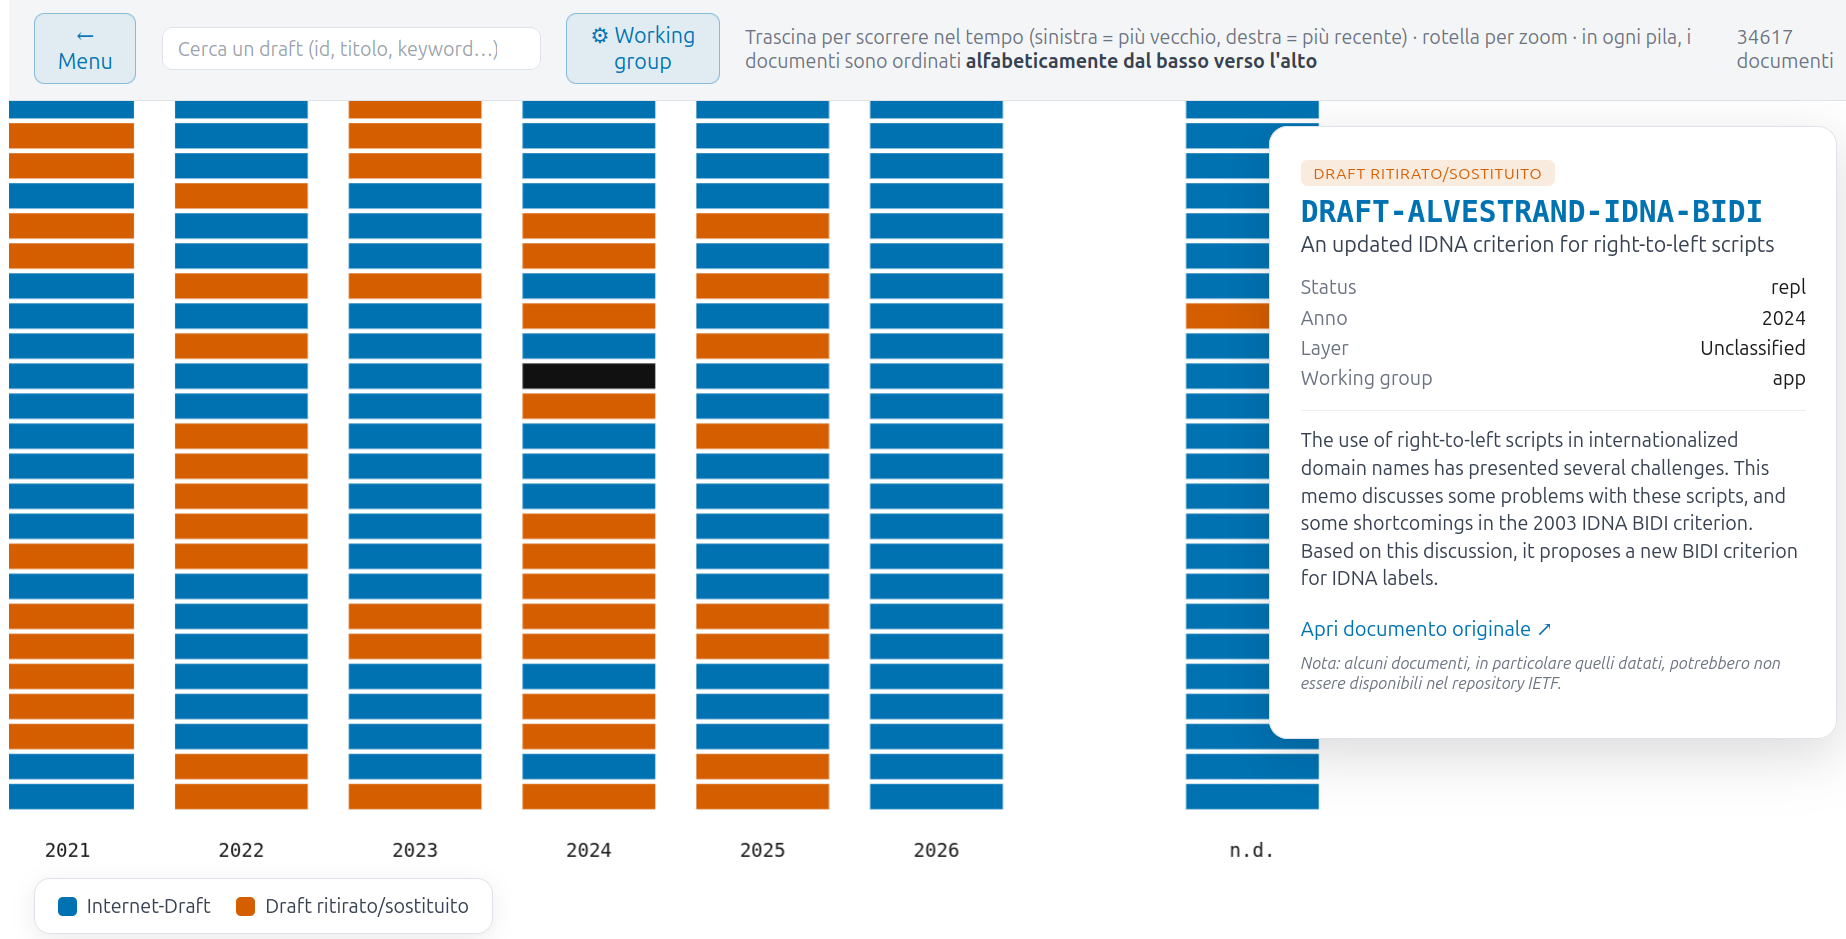
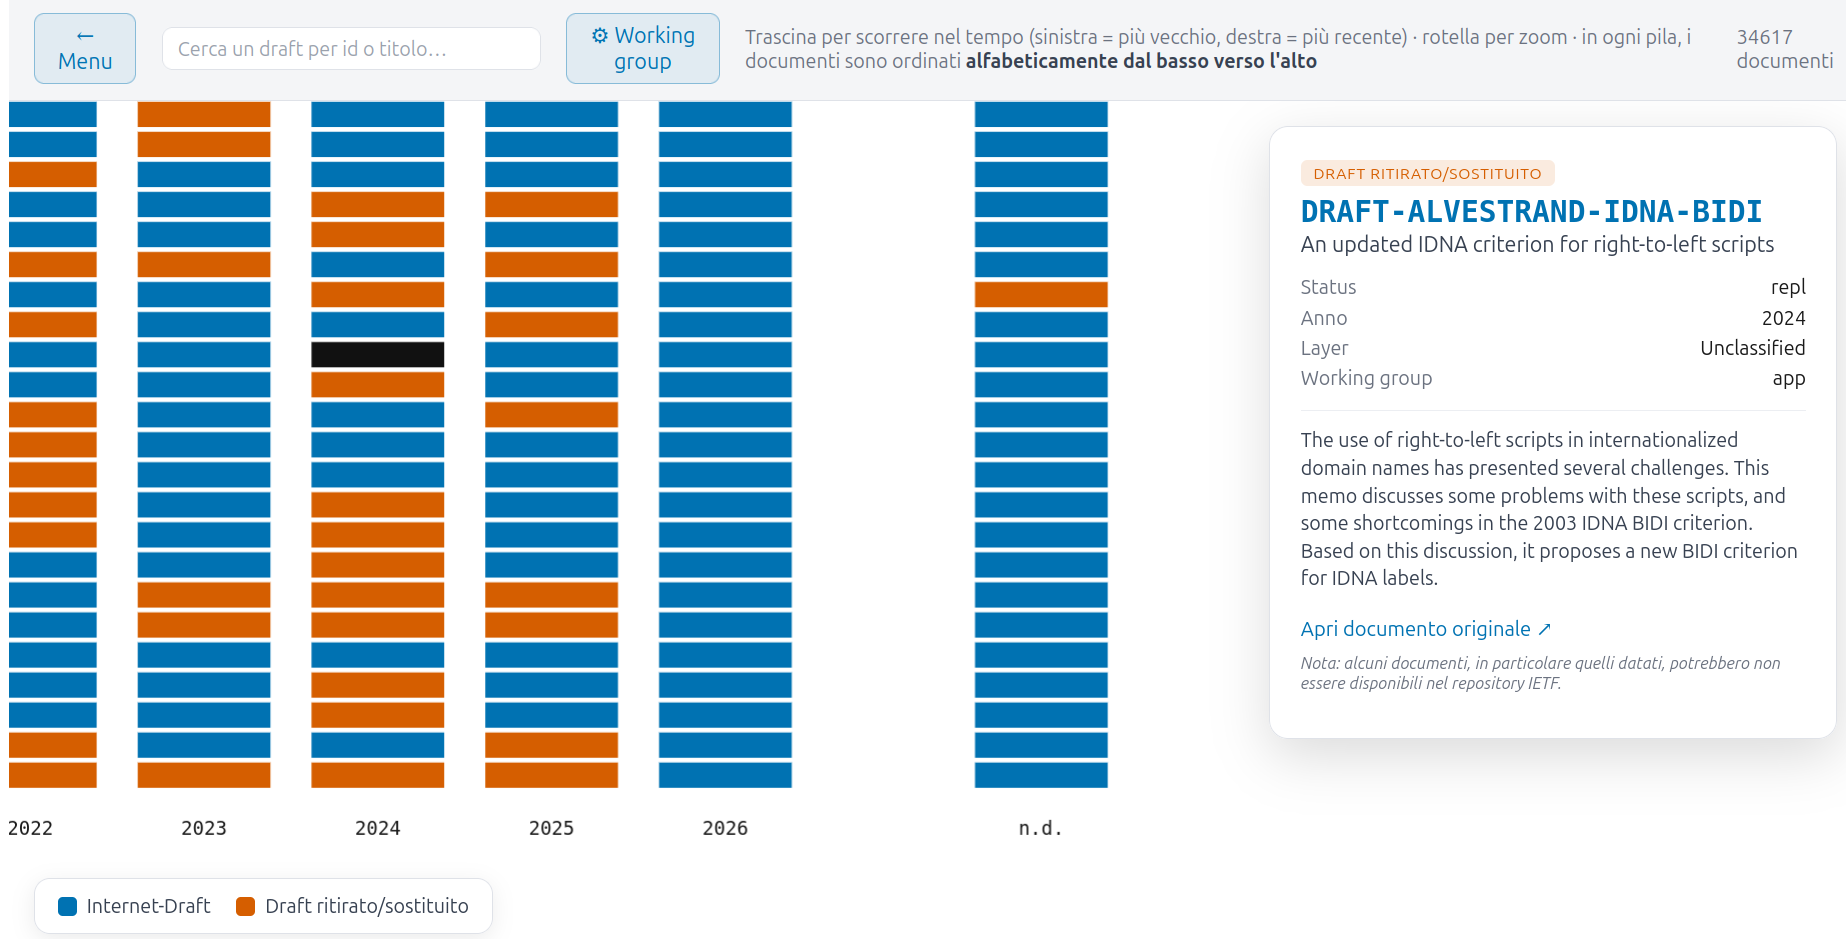
Update ../img/ files and draft-timeline files

diff --git a/infovis/src/app/components/draft-timeline/draft-timeline.component.html b/infovis/src/app/components/draft-timeline/draft-timeline.component.html
@@ -7,7 +7,7 @@
       <input
         type="text"
         class="draft-search-input"
-        placeholder="Cerca un draft (id, titolo, keyword…)"
+        placeholder="Cerca un draft per id o titolo…"
         [value]="draftSearchQuery()"
         [disabled]="!loaded()"
         (input)="onDraftSearchInput($event)"